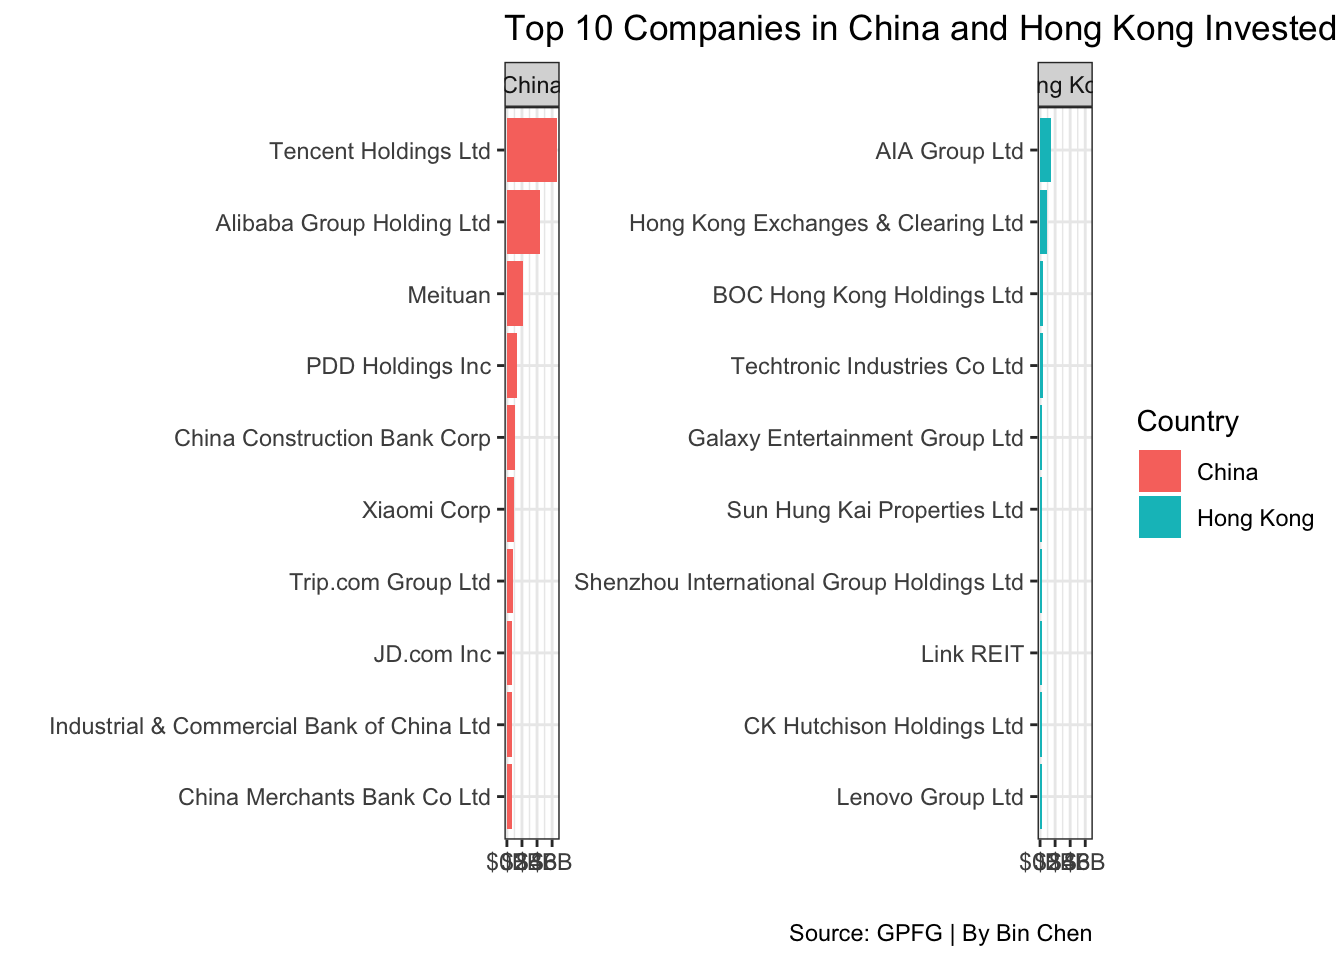
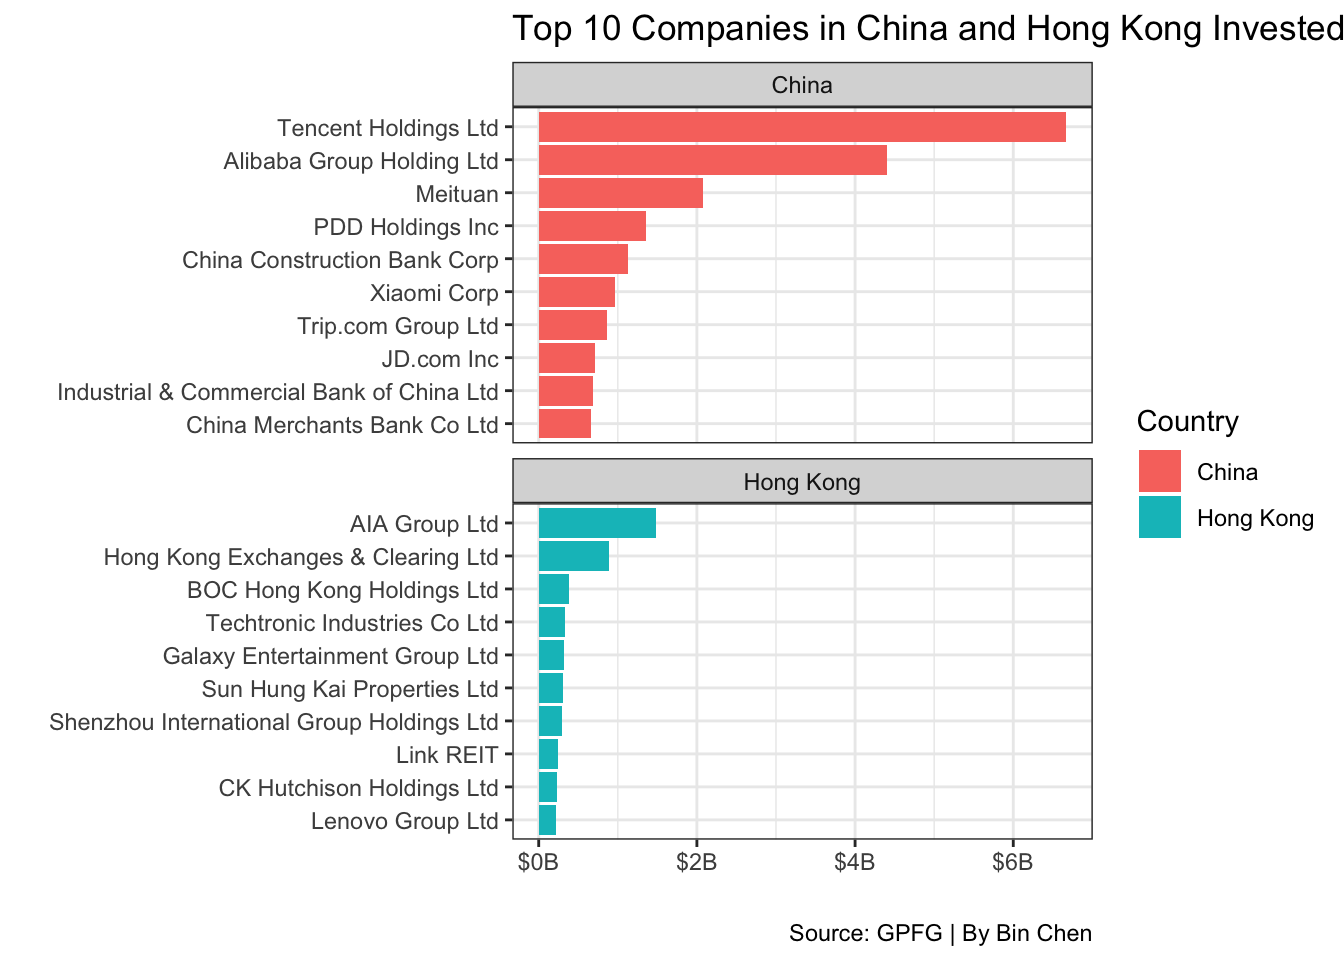
update bar chart

Changed region(s): [[0.0312, 0.0, 1.0, 0.9062]]

diff --git a/docs/norway-invest.html b/docs/norway-invest.html
@@ -698,7 +698,7 @@ Pie Chart with ggplot2
 <span id="annotated-cell-11-17"><a href="#annotated-cell-11-17" aria-hidden="true" tabindex="-1"></a>    <span class="at">fill =</span> <span class="st">"Country"</span>,</span>
 <span id="annotated-cell-11-18"><a href="#annotated-cell-11-18" aria-hidden="true" tabindex="-1"></a>    <span class="at">caption =</span> <span class="st">"Source: GPFG | By Bin Chen"</span></span>
 <a class="code-annotation-anchor" data-target-cell="annotated-cell-11" data-target-annotation="5" onclick="event.preventDefault();">5</a><span id="annotated-cell-11-19" class="code-annotation-target"><a href="#annotated-cell-11-19" aria-hidden="true" tabindex="-1"></a>  ) <span class="sc">+</span></span>
-<a class="code-annotation-anchor" data-target-cell="annotated-cell-11" data-target-annotation="6" onclick="event.preventDefault();">6</a><span id="annotated-cell-11-20" class="code-annotation-target"><a href="#annotated-cell-11-20" aria-hidden="true" tabindex="-1"></a>  <span class="fu">facet_wrap</span>(<span class="sc">~</span>country, <span class="at">scales =</span> <span class="st">"free_y"</span>) <span class="sc">+</span></span>
+<a class="code-annotation-anchor" data-target-cell="annotated-cell-11" data-target-annotation="6" onclick="event.preventDefault();">6</a><span id="annotated-cell-11-20" class="code-annotation-target"><a href="#annotated-cell-11-20" aria-hidden="true" tabindex="-1"></a>  <span class="fu">facet_wrap</span>(<span class="sc">~</span>country, <span class="at">scales =</span> <span class="st">"free_y"</span>, <span class="at">ncol =</span> <span class="dv">1</span>) <span class="sc">+</span></span>
 <a class="code-annotation-anchor" data-target-cell="annotated-cell-11" data-target-annotation="7" onclick="event.preventDefault();">7</a><span id="annotated-cell-11-21" class="code-annotation-target"><a href="#annotated-cell-11-21" aria-hidden="true" tabindex="-1"></a>  <span class="fu">theme_bw</span>()</span><div class="code-annotation-gutter-bg"></div><div class="code-annotation-gutter"></div></code><button title="Copy to Clipboard" class="code-copy-button"><i class="bi"></i></button></pre></div>
 <div class="cell-annotation">
 <dl class="code-annotation-container-grid">
